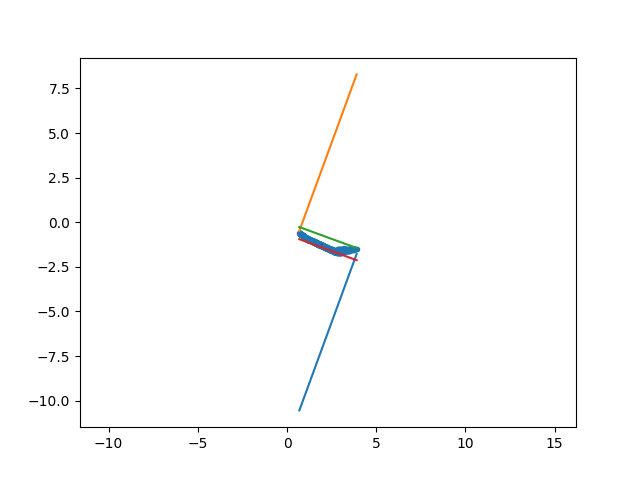
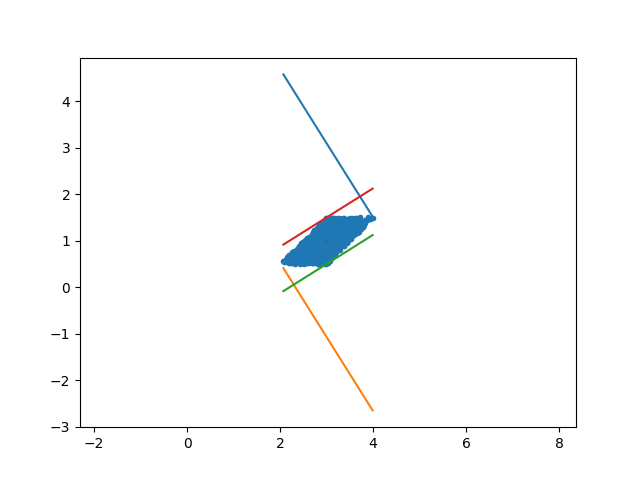
bug fixes including in use of the new axis center

diff --git a/run.py b/run.py
@@ -15,15 +15,15 @@ def main():
     eps = .001
     verbose = 0
     virtualBranching = False
-    numberOfVirtualBranches = 4,
-    maxSearchDepthLipschitzBound = 10,
+    numberOfVirtualBranches = 4
+    maxSearchDepthLipschitzBound = 10
     normToUseLipschitz = 2
     useTwoNormDilation = False
     useSdpForLipschitzCalculation = True
     lipschitzSdpSolverVerbose = False
     finalHorizon = 4
     initialGD = False
-    performMultiStepSingleHorizon = True
+    performMultiStepSingleHorizon = False
 
     if finalHorizon > 1 and performMultiStepSingleHorizon and\
             (normToUseLipschitz != 2 or not useSdpForLipschitzCalculation):
@@ -172,7 +172,8 @@ def main():
         for i, component in enumerate(data_comp):
             u = -calculatedLowerBoundsforpcaDirections[2 * i]
             l = calculatedLowerBoundsforpcaDirections[2 * i + 1]
-            center = (u + l) / 2
+            # center = (u + l) / 2
+            center = component @ data_mean
             centers.append(center)
             upperCoordinate[i] = u - center
             lowerCoordinate[i] = l - center
@@ -189,7 +190,7 @@ def main():
 
         plt.axis("equal")
         plt.savefig("reachabilityPics/" + fileName + "Iteration" + str(iteration) + ".png")
-        plt.show()
+        # plt.show()
 
 
             
